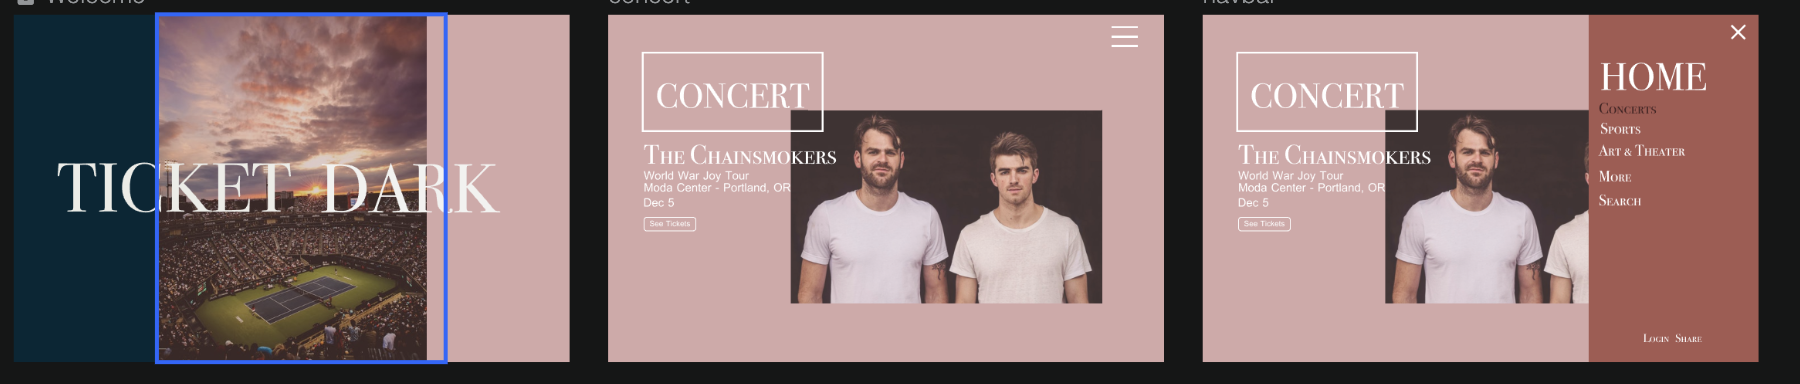
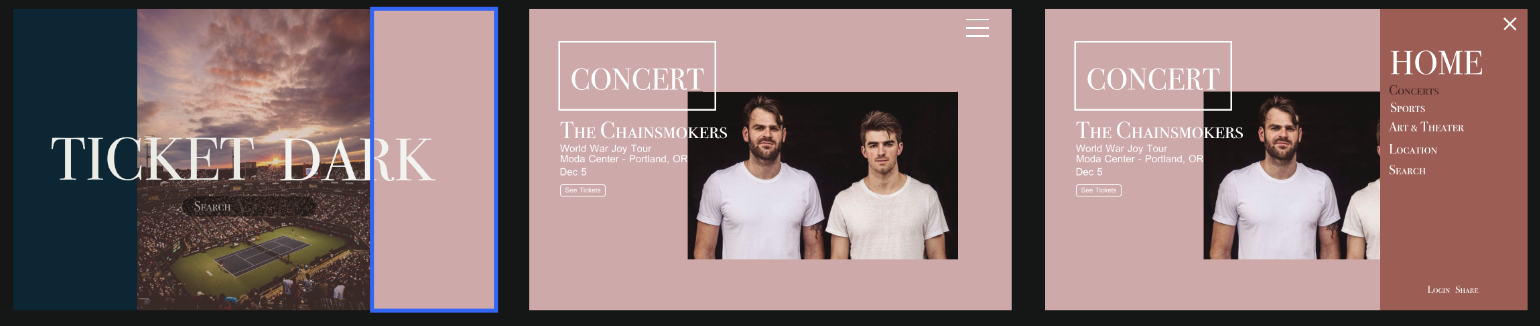
Add Completed features and planned features in readme

Changed region(s): [[0.0, 0.0, 0.9974, 0.9816]]

diff --git a/README.md b/README.md
@@ -1,12 +1,12 @@
 ### _Ticket Dark_
 
-#### _User can view a list of available sake_
+#### _User can view a list of event's occurring near them_
 
 #### _By Kohichi Horii_
 
 ## Description
 
-* _The purpose of this project is to have a user see which sake is available, brand, price and alcohol content_
+* _The purpose of this project is to have a user view event's that are coming up or even around their area. User can also add events to the webpage.
 
 ## Planning
 
@@ -34,20 +34,9 @@
 This project was bootstrapped with [Create React App](https://github.com/facebook/create-react-app).
 
 ## Completed Features
-* _Program will navigate between different pages_
-* _Program will take a new sake entree and show it in sake list_
 
-## Planned Features
+* _Some of the Wire framing_
 
-* _Have the user be able to import a photo with the new sake information_
-* _Add animation when customer hovers over images and also links_
-* _User will be able to edit if the sake is no longer available_
-* _User will be able to purchase an item, will make a checkout component_
-
-
-## Known Bugs
-
-_If user adds more then three items the list will go off the background._
 
 ## Support and contact details
 
